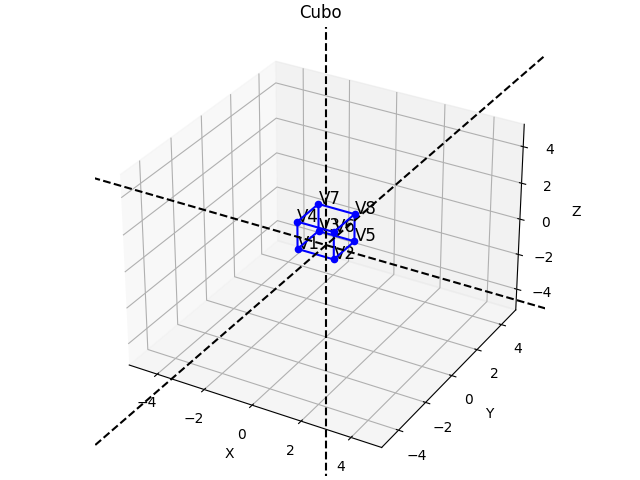
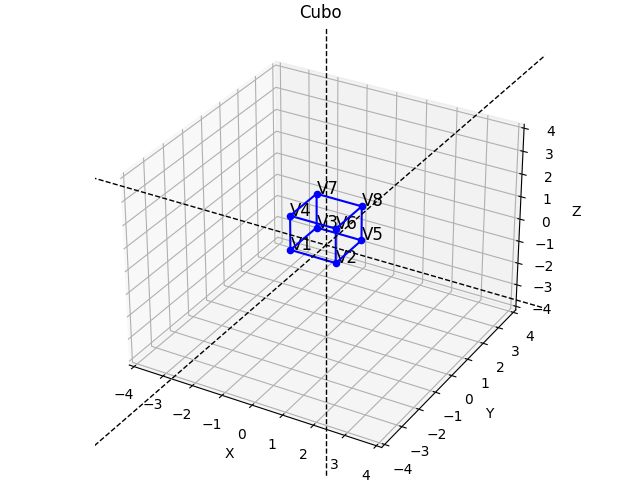
corrigindo chamadas erradas ao reaproveitar outras questões

diff --git a/trabalho2/questao4.py b/trabalho2/questao4.py
@@ -19,29 +19,30 @@ P = np.matrix([
     [0, 0, 0, 1]
 ])
 
-# Aplicando a transformação nos sólidos
-for solido in solidos:
-    solido.multiplicacao_por_matriz(P)
+if __name__ == '__main__':
+    # Aplicando a transformação nos sólidos
+    for solido in solidos:
+        solido.multiplicacao_por_matriz(P)
 
-# Plotando o gráfico 2D
-fig = plt.figure()
-ax = fig.add_subplot(111)
-ax.set_title("Projeção nos eixos x e y dos sólidos")
-ax.set_xlabel('X')
-ax.set_ylabel('Y')
-# ax.set_xlim(-6, 6)
-ax.set_ylim(-6, 0)
-for solido in solidos:
-    # Plotando vértices
-    # for nome, vertice in solido.vertices.items():
-    #     ax.scatter(vertice[0], vertice[1])
-    #     ax.text(vertice[0], vertice[1], nome, size=12, zorder=1, color='k')
-    # Plotando arestas
-    for key, value in solido.arestas.items():
-        pontos = [solido.vertices[value[0]], solido.vertices[value[1]]]
-        x = [pontos[0][0], pontos[1][0]]
-        y = [pontos[0][1], pontos[1][1]]
-        ax.plot(x, y, color=solido.cor)
+    # Plotando o gráfico 2D
+    fig = plt.figure()
+    ax = fig.add_subplot(111)
+    ax.set_title("Projeção nos eixos x e y dos sólidos")
+    ax.set_xlabel('X')
+    ax.set_ylabel('Y')
+    # ax.set_xlim(-6, 6)
+    ax.set_ylim(-6, 0)
+    for solido in solidos:
+        # Plotando vértices
+        # for nome, vertice in solido.vertices.items():
+        #     ax.scatter(vertice[0], vertice[1])
+        #     ax.text(vertice[0], vertice[1], nome, size=12, zorder=1, color='k')
+        # Plotando arestas
+        for key, value in solido.arestas.items():
+            pontos = [solido.vertices[value[0]], solido.vertices[value[1]]]
+            x = [pontos[0][0], pontos[1][0]]
+            y = [pontos[0][1], pontos[1][1]]
+            ax.plot(x, y, color=solido.cor)
 
-plt.savefig("images/" + "projecao2D.png")
-plt.show()
+    plt.savefig("images/" + "projecao2D.png")
+    plt.show()

diff --git a/trabalho2/src/PlotaSolido.py b/trabalho2/src/PlotaSolido.py
@@ -48,9 +48,9 @@ def plota_eixos(ax) -> None:
     :param ax: Subplot
     :return: None
     """
-    ax.plot([40, -40], [0, 0], [0, 0], color='black', linestyle='dashed')
-    ax.plot([0, 0], [40, -40], [0, 0], color='black', linestyle='dashed')
-    ax.plot([0, 0], [0, 0], [40, -40], color='black', linestyle='dashed')
+    ax.plot([40, -40], [0, 0], [0, 0], color='black', linestyle='dashed', linewidth=1)
+    ax.plot([0, 0], [40, -40], [0, 0], color='black', linestyle='dashed', linewidth=1)
+    ax.plot([0, 0], [0, 0], [40, -40], color='black', linestyle='dashed', linewidth=1)
 
 
 def plota_solido(solido: Solido, com_arestas=True, com_pontos=False, com_eixos=True) -> None:
@@ -83,9 +83,11 @@ def plota_solido(solido: Solido, com_arestas=True, com_pontos=False, com_eixos=T
     ax.set_ylabel('Y')
     ax.set_zlabel('Z')
 
-    ax.set_xlim(-5, 5)
-    ax.set_ylim(-5, 5)
-    ax.set_zlim(-5, 5)
+    ax.set_xlim(-4, 4)
+    ax.set_ylim(-4, 4)
+    ax.set_zlim(-4, 4)
+
+    # ax.view_init(120, 30)
 
     plt.savefig("images/" + nome_imagem + ".png")
     plt.show()

diff --git a/trabalho2/src/Paralelepipedo.py b/trabalho2/src/Paralelepipedo.py
@@ -4,14 +4,14 @@ from trabalho2.src.Solido import Solido
 
 def constroi_vertices():
     vertices = dict()
-    vertices["V1"] = (0, 0, 0)
-    vertices["V2"] = (1.5, 0, 0)
-    vertices["V3"] = (0, 0, 2.5)
-    vertices["V4"] = (0, 5, 0)
-    vertices["V5"] = (1.5, 0, 2.5)
-    vertices["V6"] = (1.5, 5, 0)
-    vertices["V7"] = (0, 5, 2.5)
-    vertices["V8"] = (1.5, 5, 2.5)
+    vertices["V1"] = [0, 0, 0]
+    vertices["V2"] = [1.5, 0, 0]
+    vertices["V3"] = [0, 0, 2.5]
+    vertices["V4"] = [0, 5, 0]
+    vertices["V5"] = [1.5, 0, 2.5]
+    vertices["V6"] = [1.5, 5, 0]
+    vertices["V7"] = [0, 5, 2.5]
+    vertices["V8"] = [1.5, 5, 2.5]
     return vertices
 
 
